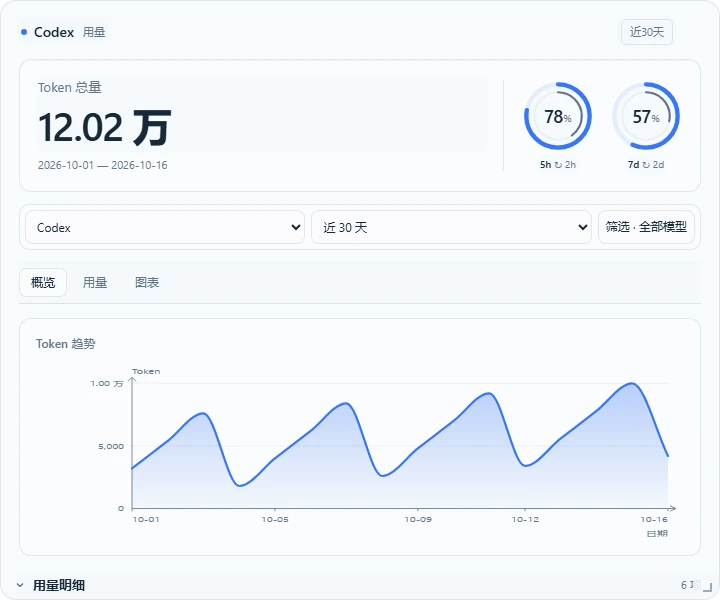
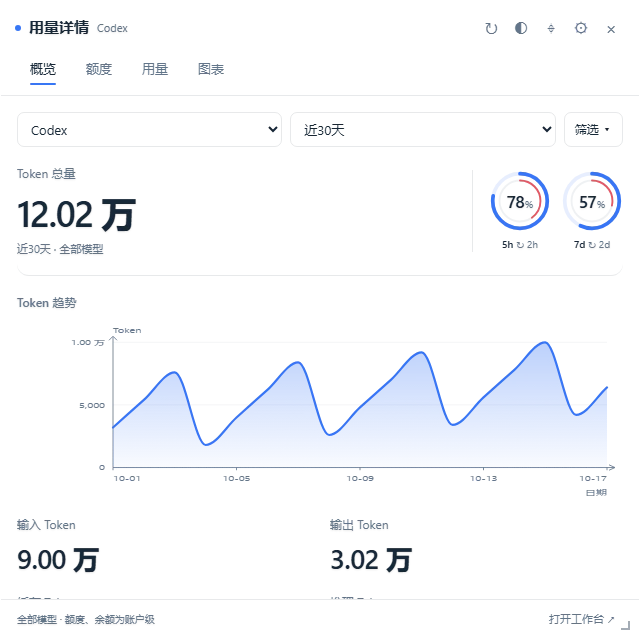
0.1.16：任务栏双环与多级详情设计预览

diff --git a/frontend/compat/lingxi-design.ts b/frontend/compat/lingxi-design.ts
@@ -62,7 +62,7 @@
     const existing=window.WorkbenchUpdates.state();status.textContent=existing.error||(existing.availableVersion?'发现新版本 '+existing.availableVersion:existing.status==='latest'?'当前已是最新版本':'');
     check.onclick=async()=>{check.disabled=true;status.textContent='正在检查更新…';try{const state=await window.WorkbenchUpdates.check();if(!host.isConnected)return;status.textContent=state.error||(state.status==='checking'?'正在检查更新…':state.status==='latest'?'当前已是最新版本':state.availableVersion?'发现新版本 '+state.availableVersion:'');if(['available','downloaded'].includes(state.status))window.WorkbenchUpdates.open();}catch(error){if(host.isConnected)status.textContent=error.message;}finally{if(check.isConnected)check.disabled=false;}};
     host.querySelector('[data-update-details]').onclick=()=>window.WorkbenchUpdates.open();
-    if(window.workbenchDesktop?.floatingSettings){const card=document.createElement('article');card.className='lingxi-about-card';card.innerHTML='<div><h3>用量悬浮窗</h3><p>独立查看额度与图表，关闭主窗后继续轻量监测。</p></div><button type="button" class="btn">配置悬浮窗</button>';card.querySelector('button').onclick=()=>window.workbenchDesktop.floatingSettings();host.querySelector('.lingxi-about-cards').append(card);}
+    if(window.workbenchDesktop?.floatingSettings){const card=document.createElement('article');card.className='lingxi-about-card';card.innerHTML='<div><h3>任务栏用量</h3><p>任务栏双环，点击查看额度与图表；关闭主窗后继续监测。</p></div><button type="button" class="btn">配置任务栏用量</button>';card.querySelector('button').onclick=()=>window.workbenchDesktop.floatingSettings();host.querySelector('.lingxi-about-cards').append(card);}
     const tray=host.querySelector('[data-tray-setting]');if(tray){window.workbenchDesktop.closeState().then(value=>{if(tray.isConnected)tray.checked=value.closeToTray;});tray.onchange=()=>window.workbenchDesktop.closeBehavior(tray.checked).catch(error=>status.textContent=error.message);}
   }
   function resetBatteries(host,resetCredits) {

diff --git a/README.md b/README.md
@@ -14,11 +14,13 @@
 
 一个以本机 Profile 为资料边界的个人工作台。网页版与 Windows 桌面版共享页面和业务服务；项目、待办、账单、提示词与用量证据集中管理。一个 Profile 就是一个实例账户，无需应用登录或注册，用户名与头像可以修改。
 
-## 0.1.15 分层悬浮窗与返回更新检查
+## 0.1.16 任务栏双环与用量详情
 
-独立用量悬浮窗采用无标题栏的紧凑数据表面，与工作台共用中性色、字体及强调色。提供双圆环、指标摘要、紧凑卡片与详细面板，均支持横纵排列。额度图形采用外环剩余额度、内环重置时间，详细面板容纳更多分层指标及三张图表。支持独立筛选、浅深配色、原生毛玻璃、巧克力与透明主题，以及基于预设的尺寸和透明度自定义。详细面板有概览／用量／图表导航与可折叠内容，完整主题可调背景、文字、图表色、密度及数字字体；透明外画布保留必要内容可读底色。设置右侧等比预览支持浅／深／棋盘背景及Ctrl＋／−／0缩放，跨窗口修改按字段保存并提示同字段冲突。默认关闭，在桌面「关于 → 用量悬浮窗」或托盘菜单开启。
+Windows桌面用量入口改为任务栏两个同心双环：默认开始按钮左侧，外蓝为剩余额度、内红为距重置时间，分别显示Codex五小时与周额度；颜色、位置、显示器、偏移及大小可调。优先真实内嵌，空间不足或不兼容时显示任务栏附近的独立入口，设置标明实际模式。
 
-悬浮窗开启后关闭主窗会保存可恢复的编辑现场并释放主界面，后台监测继续；从托盘或悬浮窗恢复。支持左、右、上贴边收缩和同屏全屏避让；碰边展开、移出收起，连续操作接管当前动画。贴边自动吸附隐藏可关闭，拖动以最终光标位置吸附，鼠标点击边签不会锁定展开；收缩仅保留短边签；透明宿主与毛玻璃材质随状态协调，内容准备完成后才显示。悬浮内容和设置分开加载，隐藏暂停查询及图表，筛选响应缓存按字节限制。网页版不提供原生悬浮窗，Windows 安装版由 Releases 提供。
+点击在入口上方展开详情，提供概览、额度、用量、图表及单模型详情；来源、账户、日期和多模型筛选独立保存。支持主题、完整配色、尺寸及固定，透明主题不在文字或图表下填背景块。再次点击、Esc或未固定时点击其他应用收起，关闭后释放详情渲染器；双环与既有后台继续工作。主窗轻量模式与托盘恢复保留。
+
+首次默认关闭，桌面「关于 → 任务栏用量」或托盘设置可开启。设置提供等比预览与Ctrl＋／−／0缩放。网页版不提供原生任务栏入口，Windows安装版由Releases提供。实际任务栏宿主、模拟自有窗口消息、渲染截图、真实OS鼠标和安装链分别验证。
 
 ## 支持的工具与来源
 

diff --git a/docs/FLOATING_REFERENCES.md b/docs/FLOATING_REFERENCES.md
@@ -41,3 +41,11 @@
 - [src/electron/windowsChrome.js](https://github.com/Javis603/token-monitor/blob/ccfdcdb4ad9fa25c859815fafb5ff1f12e41e9b6/src/electron/windowsChrome.js)：原生圆角及合成属性的边界。
 
 本项目使用自己的单悬浮宿主、React图表、受限桥与既有统计；不采用该项目额外边缘窗口、koffi、采集服务或仅macOS可用的材质。Windows原生背景、实际鼠标与DWM观感仍须绑定本次候选包单独验收；网页透明截图不替代该验收。
+
+## 任务栏与两层详情（0.1.16）
+
+继续使用用户明确给出的Javis603/token-monitor，研究提交d2817dba989111b60d11fcc732708589cc09e085的renderer/styles.css、themePresets.js、edgeDock/presentation.js等，参考页面分层、完整主题和数据身份；未复制源码、资产或增加采集服务。MIT许可。
+
+任务栏可行性实际读取[Deskband11Lib](https://github.com/airtaxi/Deskband11Lib)的TaskbarContentHostBase.cs、Internal/TaskbarButtonReader.cs和TaskbarLayoutCalculator.cs，参考真实父窗口、空位避让和任务栏重建思路，未引入.NET依赖或复制其实现。独立Win32/GDI+子窗口，遵循[逐像素透明窗口](https://learn.microsoft.com/en-us/windows/win32/winmsg/window-features#layered-windows)、[UI Automation](https://learn.microsoft.com/en-us/windows/win32/winauto/entry-uiauto-win32)及[SetParent](https://learn.microsoft.com/en-us/windows/win32/api/winuser/nf-winuser-setparent)的兼容边界；不注入Explorer、不移动系统图标。Windows支持清单是子窗口分层透明的必要条件。
+
+本版按用户要求取消透明内容底色，图表和文字都不再由局部背景块保护。展开采用[气泡面板](https://vibe-hub.org/popover)的锚定关系与既有260/200ms缓动，切页用项目已有Motion，未引入第二套动画库。

diff --git a/GIT_LOG.md b/GIT_LOG.md
@@ -1,5 +1,5 @@
 # 发布记录
 
-## 0.1.15
+## 0.1.16
 
 React、TypeScript、Vite 与 Node、SQLite；Profile 实例资料、完整加密备份。桌面安装版由 Releases 提供。
